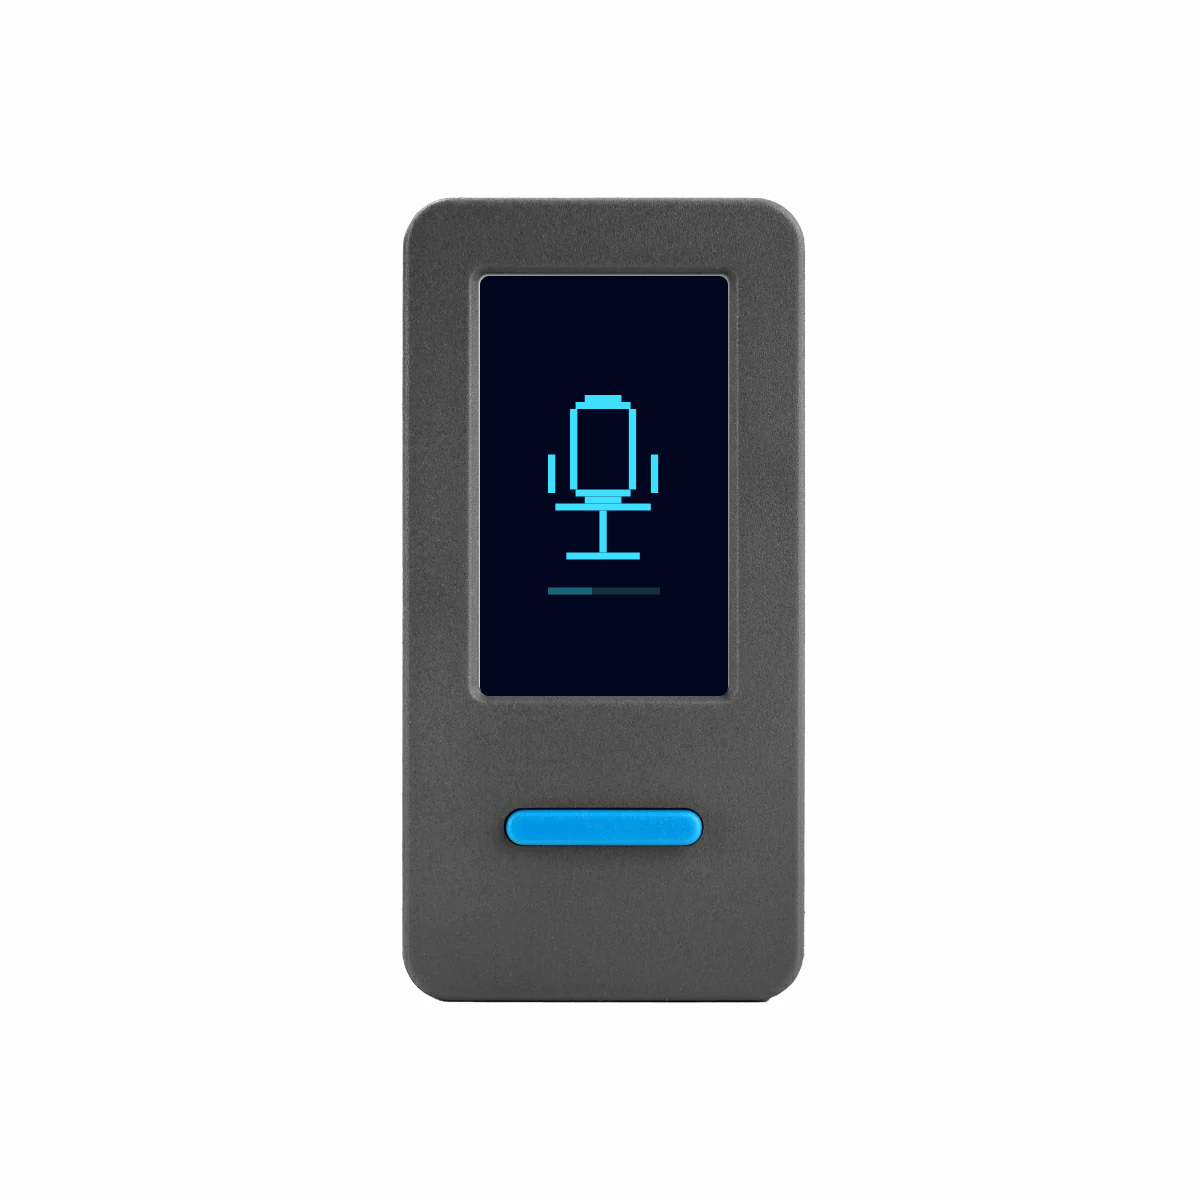
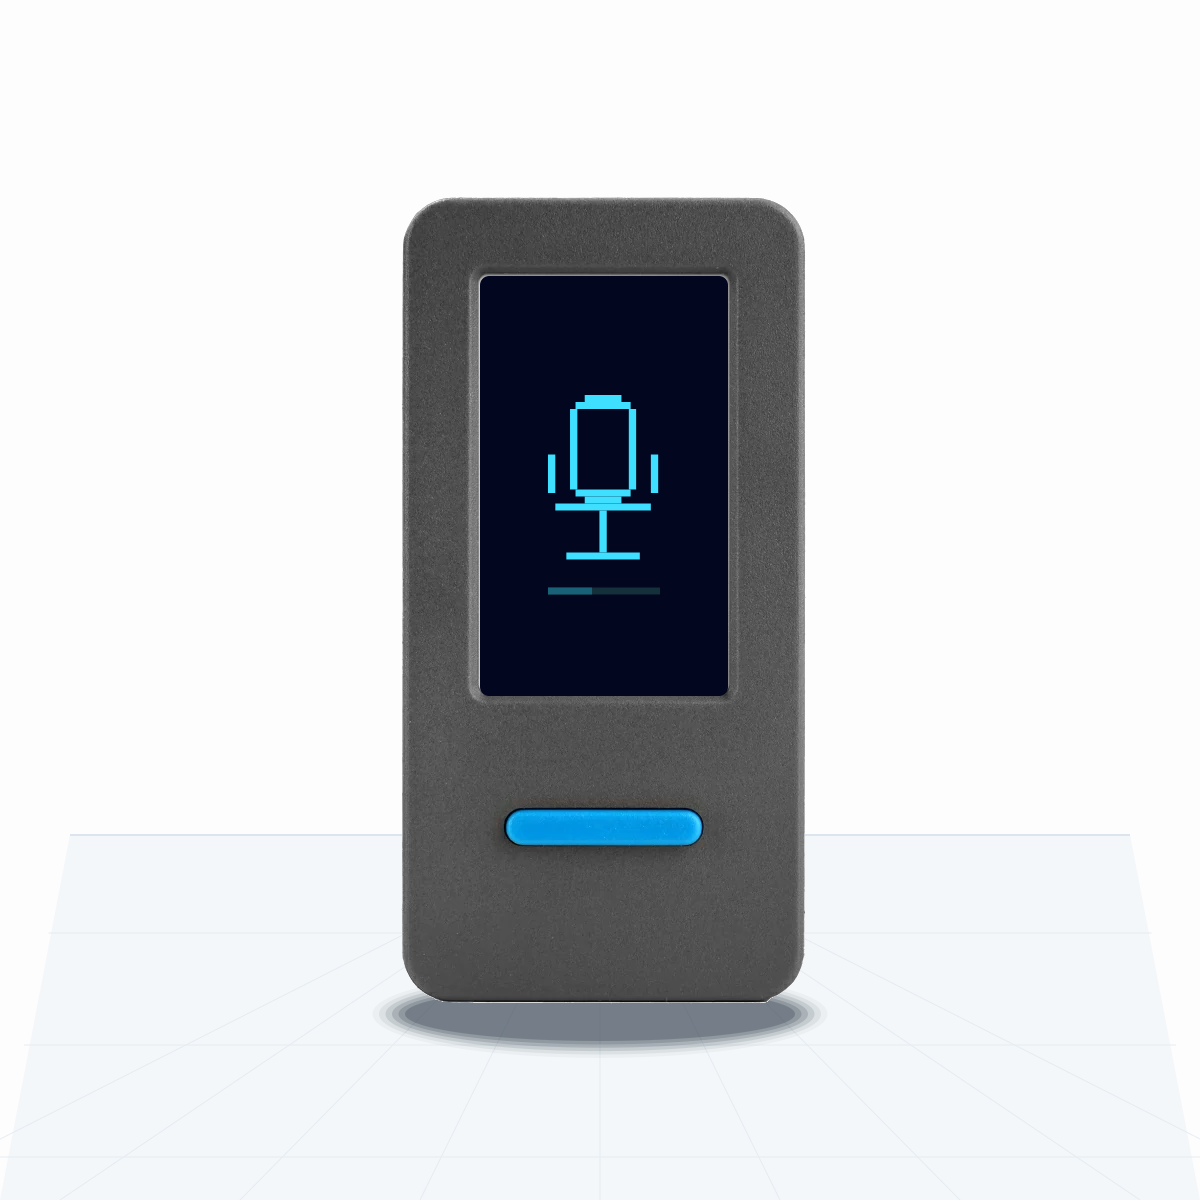
Add desktop scene references to device states

Changed region(s): [[0.3083, 0.8017, 0.6783, 0.8942]]

diff --git a/tools/draw-doc-assets.swift b/tools/draw-doc-assets.swift
@@ -9,7 +9,7 @@ private struct Point {
 }
 
 private let uprightURL = URL(string: "https://m5stack-doc.oss-cn-shenzhen.aliyuncs.com/1207/K150-stickS3_main-products_07.webp")!
-private let flatURL = URL(string: "https://m5stack-doc.oss-cn-shenzhen.aliyuncs.com/1207/K150-stickS3_main-products_05.webp")!
+private let flatURL = URL(string: "https://m5stack-doc.oss-cn-shenzhen.aliyuncs.com/1207/K150-stickS3_main-products_02.webp")!
 
 private func loadImage(from url: URL) throws -> CGImage {
   let data = try Data(contentsOf: url)
@@ -40,6 +40,85 @@ private func makeContext(width: Int, height: Int) throws -> CGContext {
     ])
   }
   return context
+}
+
+private func imageByRemovingWhiteBackground(_ image: CGImage) throws -> CGImage {
+  let width = image.width
+  let height = image.height
+  let bytesPerRow = width * 4
+  let bitmapInfo = CGBitmapInfo.byteOrder32Big.rawValue | CGImageAlphaInfo.premultipliedLast.rawValue
+  let colorSpace = CGColorSpaceCreateDeviceRGB()
+  var data = Data(repeating: 0, count: bytesPerRow * height)
+
+  try data.withUnsafeMutableBytes { rawBuffer in
+    guard let baseAddress = rawBuffer.baseAddress else {
+      throw NSError(domain: "voxstick-doc-assets", code: 5, userInfo: [
+        NSLocalizedDescriptionKey: "Could not allocate image buffer"
+      ])
+    }
+    guard let context = CGContext(
+      data: baseAddress,
+      width: width,
+      height: height,
+      bitsPerComponent: 8,
+      bytesPerRow: bytesPerRow,
+      space: colorSpace,
+      bitmapInfo: bitmapInfo
+    ) else {
+      throw NSError(domain: "voxstick-doc-assets", code: 6, userInfo: [
+        NSLocalizedDescriptionKey: "Could not create matte CGContext"
+      ])
+    }
+
+    context.draw(image, in: CGRect(x: 0, y: 0, width: width, height: height))
+
+    let pixels = rawBuffer.bindMemory(to: UInt8.self)
+    for offset in stride(from: 0, to: pixels.count, by: 4) {
+      let red = Int(pixels[offset])
+      let green = Int(pixels[offset + 1])
+      let blue = Int(pixels[offset + 2])
+      let maxChannel = max(red, green, blue)
+      let minChannel = min(red, green, blue)
+      let isNeutralWhite = maxChannel - minChannel < 16
+
+      guard isNeutralWhite, minChannel > 228 else { continue }
+
+      let opacity: CGFloat
+      if minChannel >= 248 {
+        opacity = 0
+      } else {
+        opacity = CGFloat(248 - minChannel) / 20
+      }
+
+      pixels[offset] = UInt8(CGFloat(red) * opacity)
+      pixels[offset + 1] = UInt8(CGFloat(green) * opacity)
+      pixels[offset + 2] = UInt8(CGFloat(blue) * opacity)
+      pixels[offset + 3] = UInt8(CGFloat(pixels[offset + 3]) * opacity)
+    }
+  }
+
+  guard
+    let provider = CGDataProvider(data: data as CFData),
+    let keyedImage = CGImage(
+      width: width,
+      height: height,
+      bitsPerComponent: 8,
+      bitsPerPixel: 32,
+      bytesPerRow: bytesPerRow,
+      space: colorSpace,
+      bitmapInfo: CGBitmapInfo(rawValue: bitmapInfo),
+      provider: provider,
+      decode: nil,
+      shouldInterpolate: true,
+      intent: .defaultIntent
+    )
+  else {
+    throw NSError(domain: "voxstick-doc-assets", code: 7, userInfo: [
+      NSLocalizedDescriptionKey: "Could not create keyed image"
+    ])
+  }
+
+  return keyedImage
 }
 
 private func writePNG(_ image: CGImage, to url: URL) throws {
@@ -78,6 +157,75 @@ private func fillPolygon(_ context: CGContext, _ points: [Point], color: CGColor
   context.setFillColor(color)
   addPolygon(context, points)
   context.fillPath()
+}
+
+private func drawSceneBackground(_ context: CGContext, width: Int, height: Int, horizonY: CGFloat) {
+  let canvas = CGRect(x: 0, y: 0, width: width, height: height)
+  context.setFillColor(CGColor(red: 0.988, green: 0.992, blue: 0.996, alpha: 1))
+  context.fill(canvas)
+
+  context.saveGState()
+  context.translateBy(x: 0, y: CGFloat(height))
+  context.scaleBy(x: 1, y: -1)
+
+  let floor = [
+    Point(x: 70, y: horizonY),
+    Point(x: CGFloat(width - 70), y: horizonY),
+    Point(x: CGFloat(width), y: CGFloat(height)),
+    Point(x: 0, y: CGFloat(height))
+  ]
+  fillPolygon(
+    context,
+    floor,
+    color: CGColor(red: 0.944, green: 0.962, blue: 0.976, alpha: 1)
+  )
+
+  context.setStrokeColor(CGColor(red: 0.832, green: 0.872, blue: 0.910, alpha: 1))
+  context.setLineWidth(2)
+  context.move(to: CGPoint(x: 70, y: horizonY))
+  context.addLine(to: CGPoint(x: CGFloat(width - 70), y: horizonY))
+  context.strokePath()
+
+  context.setStrokeColor(CGColor(red: 0.830, green: 0.875, blue: 0.910, alpha: 0.65))
+  context.setLineWidth(1)
+  let vanishingPoint = CGPoint(x: CGFloat(width) * 0.5, y: horizonY)
+  for x in stride(from: -120, through: width + 120, by: 180) {
+    context.move(to: vanishingPoint)
+    context.addLine(to: CGPoint(x: x, y: height))
+  }
+  for y in stride(from: Int(horizonY) + 98, through: height + 20, by: 112) {
+    let lineY = CGFloat(y)
+    let inset = CGFloat(y - Int(horizonY)) * 0.22
+    context.move(to: CGPoint(x: max(CGFloat(0), CGFloat(70) - inset), y: lineY))
+    context.addLine(to: CGPoint(x: min(CGFloat(width), CGFloat(width - 70) + inset), y: lineY))
+  }
+  context.strokePath()
+
+  context.restoreGState()
+}
+
+private func drawSoftEllipse(
+  _ context: CGContext,
+  center: CGPoint,
+  size: CGSize,
+  angle: CGFloat,
+  alpha: CGFloat
+) {
+  context.saveGState()
+  context.translateBy(x: center.x, y: center.y)
+  context.rotate(by: angle)
+  for index in 0..<6 {
+    let progress = CGFloat(index) / 6
+    let rect = CGRect(
+      x: -size.width * (1 + progress * 0.20) / 2,
+      y: -size.height * (1 + progress * 0.75) / 2,
+      width: size.width * (1 + progress * 0.20),
+      height: size.height * (1 + progress * 0.75)
+    )
+    context.setFillColor(CGColor(red: 0.102, green: 0.137, blue: 0.180, alpha: alpha * (1 - progress) * 0.24))
+    context.fillEllipse(in: rect)
+  }
+  context.restoreGState()
 }
 
 private func drawRects(_ context: CGContext, rects: [CGRect]) {
@@ -128,10 +276,23 @@ private func drawScreenContent(_ context: CGContext, muted: Bool) {
 }
 
 private func drawUprightAsset(to output: URL) throws {
-  let base = try loadImage(from: uprightURL)
+  let base = try imageByRemovingWhiteBackground(loadImage(from: uprightURL))
   let width = base.width
   let height = base.height
   let context = try makeContext(width: width, height: height)
+
+  drawSceneBackground(context, width: width, height: height, horizonY: 835)
+  context.saveGState()
+  context.translateBy(x: 0, y: CGFloat(height))
+  context.scaleBy(x: 1, y: -1)
+  drawSoftEllipse(
+    context,
+    center: CGPoint(x: 600, y: 1014),
+    size: CGSize(width: 390, height: 54),
+    angle: 0,
+    alpha: 1
+  )
+  context.restoreGState()
 
   context.draw(base, in: CGRect(x: 0, y: 0, width: width, height: height))
 
@@ -159,23 +320,37 @@ private func drawUprightAsset(to output: URL) throws {
 }
 
 private func drawFlatAsset(to output: URL) throws {
-  let base = try loadImage(from: flatURL)
+  let base = try imageByRemovingWhiteBackground(loadImage(from: flatURL))
   let width = base.width
   let height = base.height
   let context = try makeContext(width: width, height: height)
 
-  // Keep the official screen-up perspective. The blue button stays on the far
-  // side because flipping the source image makes the device read as face-down.
+  drawSceneBackground(context, width: width, height: height, horizonY: 770)
+  context.saveGState()
+  context.translateBy(x: 0, y: CGFloat(height))
+  context.scaleBy(x: 1, y: -1)
+  drawSoftEllipse(
+    context,
+    center: CGPoint(x: 610, y: 826),
+    size: CGSize(width: 540, height: 86),
+    angle: 0.72,
+    alpha: 0.35
+  )
+  context.restoreGState()
+
+  // Use the official three-quarter photo for the muted tabletop state. It reads
+  // as screen-up with the large button toward the viewer, unlike the low front
+  // product angle whose front/back direction is easy to misread.
   context.draw(base, in: CGRect(x: 0, y: 0, width: width, height: height))
 
   context.saveGState()
   context.translateBy(x: 0, y: CGFloat(height))
   context.scaleBy(x: 1, y: -1)
 
-  let topLeft = Point(x: 466, y: 452)
-  let topRight = Point(x: 764, y: 423)
-  let bottomRight = Point(x: 891, y: 558)
-  let bottomLeft = Point(x: 606, y: 589)
+  let topLeft = Point(x: 377, y: 397)
+  let topRight = Point(x: 547, y: 314)
+  let bottomRight = Point(x: 722, y: 574)
+  let bottomLeft = Point(x: 544, y: 662)
   let screenPolygon = [topLeft, topRight, bottomRight, bottomLeft]
 
   fillPolygon(
@@ -188,8 +363,8 @@ private func drawFlatAsset(to output: URL) throws {
   addPolygon(context, screenPolygon)
   context.clip()
 
-  let xAxis = CGVector(dx: bottomLeft.x - topLeft.x, dy: bottomLeft.y - topLeft.y)
-  let yAxis = CGVector(dx: topRight.x - topLeft.x, dy: topRight.y - topLeft.y)
+  let xAxis = CGVector(dx: topRight.x - topLeft.x, dy: topRight.y - topLeft.y)
+  let yAxis = CGVector(dx: bottomLeft.x - topLeft.x, dy: bottomLeft.y - topLeft.y)
   context.concatenate(CGAffineTransform(
     a: xAxis.dx / 135,
     b: xAxis.dy / 135,